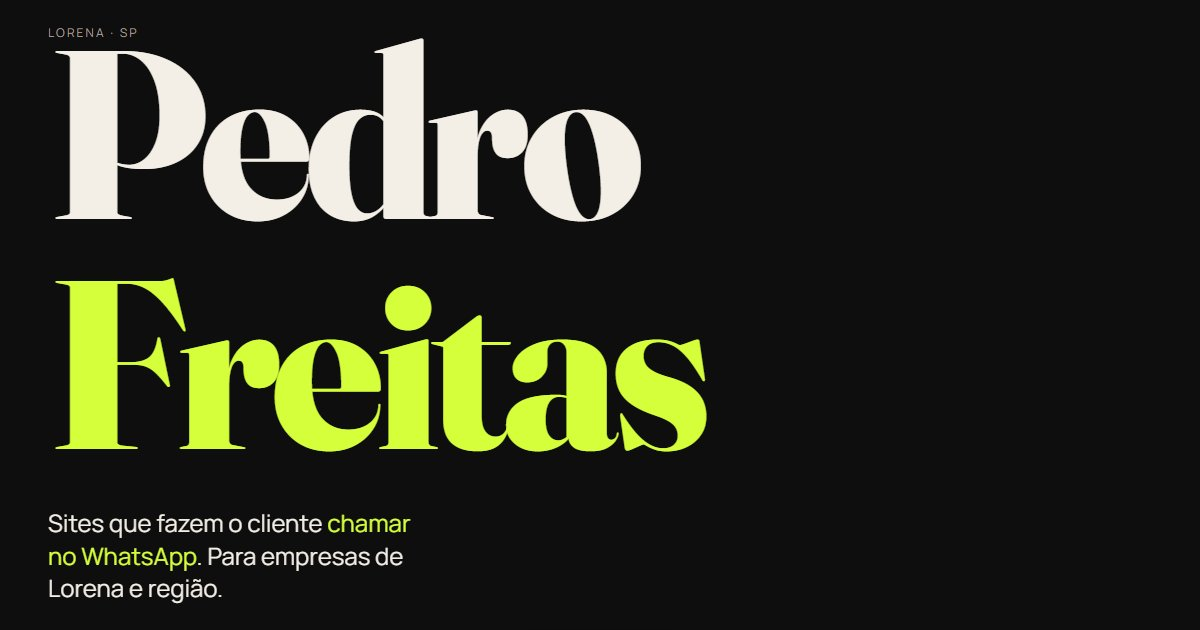
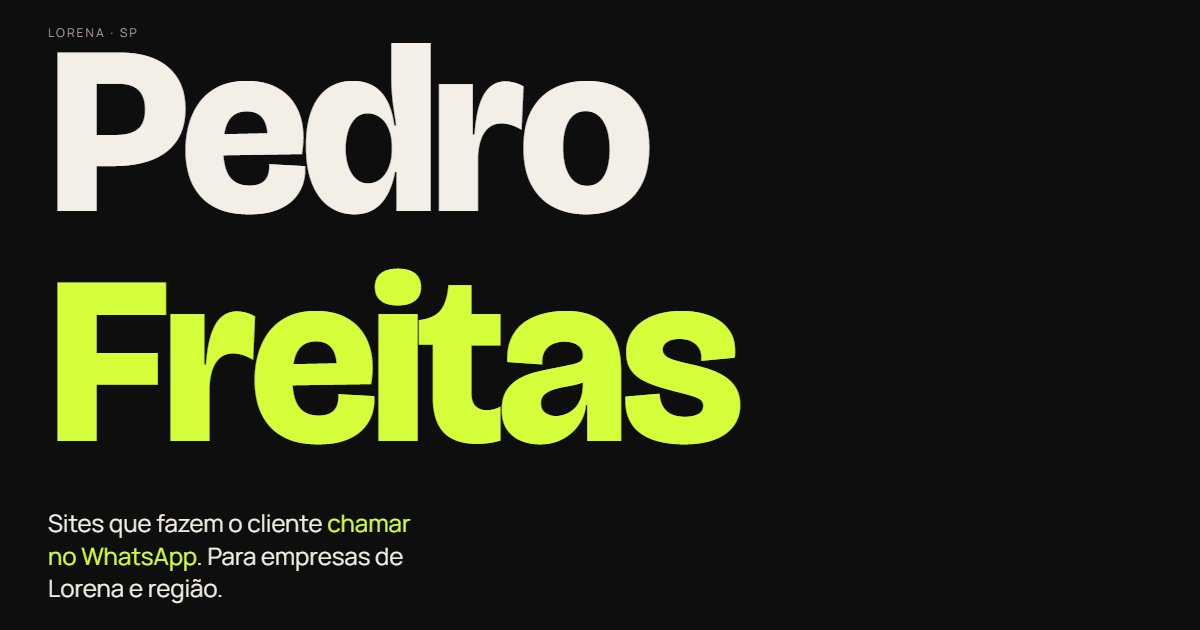
Troca a Fraunces pela Bricolage Grotesque; corrige rolagem pro lado no celular
- a serifa 'parecia biografia' (Pedro)
- brilho atras do celular passava 10% das bordas e alargava a pagina
- cartoes dos sistemas estouravam em tela de 320px com a fonte nova

Changed region(s): [[0.0308, 0.4222, 0.6167, 0.7238], [0.0308, 0.0603, 0.555, 0.3619]]

diff --git a/public/css/estilo.css b/public/css/estilo.css
@@ -8,7 +8,7 @@
   --apagado: #a39f96;
   --linha: #2c2c2c;
   --limao: #d4ff3a;
-  --serifa: "Fraunces", Georgia, serif;
+  --titulo: "Bricolage Grotesque", system-ui, sans-serif;
   --sem: "Manrope", system-ui, sans-serif;
   --lado: clamp(1rem, 5vw, 3rem);
 }
@@ -24,7 +24,7 @@ body {
   overflow-x: clip;
 }
 img { display: block; max-width: 100%; }
-h1, h2, h3 { margin: 0; font-family: var(--serifa); font-weight: 800; line-height: 1; }
+h1, h2, h3 { margin: 0; font-family: var(--titulo); font-weight: 800; line-height: 1; }
 p { margin: 0; }
 a { color: inherit; }
 :focus-visible { outline: 2px solid var(--limao); outline-offset: 3px; }
@@ -131,7 +131,7 @@ a { color: inherit; }
 .modelo__palco::before {
   content: "";
   position: absolute;
-  inset: 0 -10%;
+  inset: 0;  /* não passar das bordas: com -10% a página ficava mais larga que o celular */
   z-index: -1;
   background: radial-gradient(closest-side, var(--cor), transparent);
   opacity: .38;
@@ -152,13 +152,13 @@ a { color: inherit; }
    var() dentro de @keyframes depois que a animação começa, e o print ficava parado */
 .fone img { width: 100%; height: auto; }
 .fone--vazio { display: grid; place-items: center; background: var(--fundo-2); border-style: solid; }
-.fone--vazio span { font-family: var(--serifa); font-size: 1.2rem; color: var(--apagado); }
+.fone--vazio span { font-family: var(--titulo); font-size: 1.2rem; color: var(--apagado); }
 
 /* ---------- 3 · já entreguei ---------- */
 .grade { padding: 0 var(--lado); display: grid; gap: 1rem; }
 .sistema {
   display: grid;
-  grid-template-columns: 7.5rem 1fr;
+  grid-template-columns: clamp(5rem, 24vw, 7.5rem) minmax(0, 1fr);
   gap: 1.2rem;
   align-items: center;
   padding: 1.2rem;
@@ -166,7 +166,7 @@ a { color: inherit; }
   border-radius: 1.25rem;
   background: var(--fundo-2);
 }
-.sistema h3 { font-size: 1.5rem; }
+.sistema h3 { font-size: 1.5rem; overflow-wrap: break-word; }
 .sistema p { margin-top: .5rem; font-size: .93rem; color: var(--apagado); }
 .sistema .botao { margin-top: 1rem; min-height: 44px; padding: .5rem 1.1rem; font-size: .9rem; }
 .fone--menor { width: 100%; height: auto; flex: none; border-width: 5px; border-radius: 1.2rem; }
@@ -185,7 +185,7 @@ a { color: inherit; }
   gap: 1rem;
   padding: 1.1rem 0;
   border-bottom: 1px solid var(--linha);
-  font-family: var(--serifa);
+  font-family: var(--titulo);
   font-weight: 600;
   font-size: clamp(1.8rem, 8vw, 3.4rem);
   line-height: 1.1;

diff --git a/public/index.html b/public/index.html
@@ -19,7 +19,7 @@
   <link rel="icon" href="favicon.svg" type="image/svg+xml">
   <link rel="preconnect" href="https://fonts.googleapis.com">
   <link rel="preconnect" href="https://fonts.gstatic.com" crossorigin>
-  <link href="https://fonts.googleapis.com/css2?family=Fraunces:opsz,wght@9..144,600;9..144,800&family=Manrope:wght@400;600;800&display=swap" rel="stylesheet">
+  <link href="https://fonts.googleapis.com/css2?family=Bricolage+Grotesque:opsz,wght@12..96,600;12..96,800&family=Manrope:wght@400;600;800&display=swap" rel="stylesheet">
   <link rel="stylesheet" href="css/estilo.css">
   <script src="js/app.js" defer></script>
 </head>

diff --git a/docs/superpowers/specs/2026-09-25-portfolio-design.md b/docs/superpowers/specs/2026-09-25-portfolio-design.md
@@ -26,7 +26,7 @@ para levar a pessoa até esse botão.
 | Preço | Não aparece. Tudo termina no WhatsApp |
 | Foto / "sobre mim" | Não entram agora. Ele pode mudar depois, então o layout não deve impedir |
 | Formato | Página única, com efeitos no scroll |
-| Clima visual | Escuro e marcante: fundo quase preto, nome gigante, destaque verde-limão |
+| Clima visual | Escuro e marcante: fundo quase preto, nome gigante, destaque verde-limão. Fonte dos títulos: Bricolage Grotesque (26/09; a Fraunces com serifa "parecia biografia") |
 | Modelos no scroll | ~~Cartas empilhando~~ → três blocos abertos, sem grudar (26/09: o Pedro não gostou das cartas; opção recomendada pelo Astra) |
 | Prévia dos sites | Print do site inteiro dentro de um celular, rolando sozinho |
 
